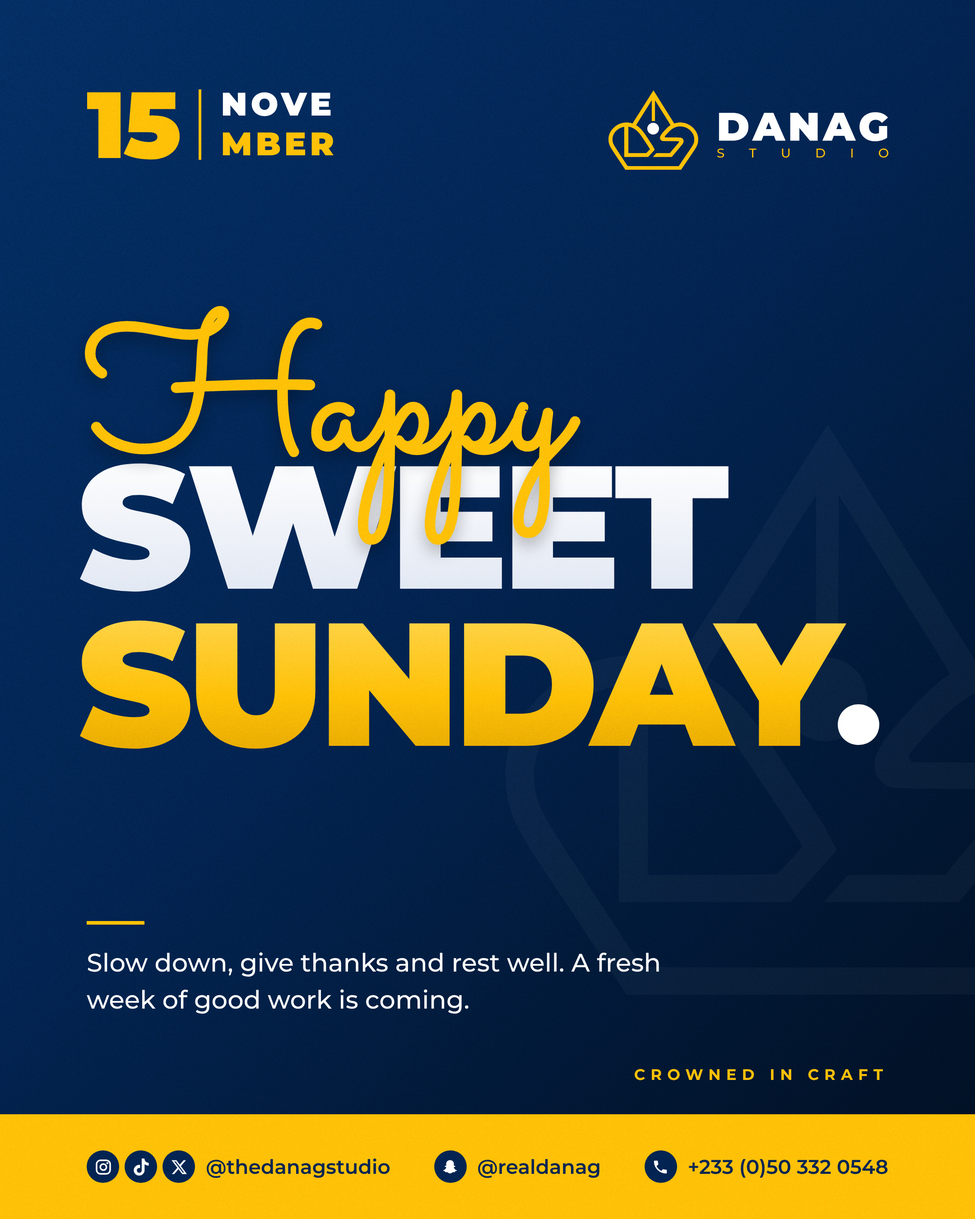
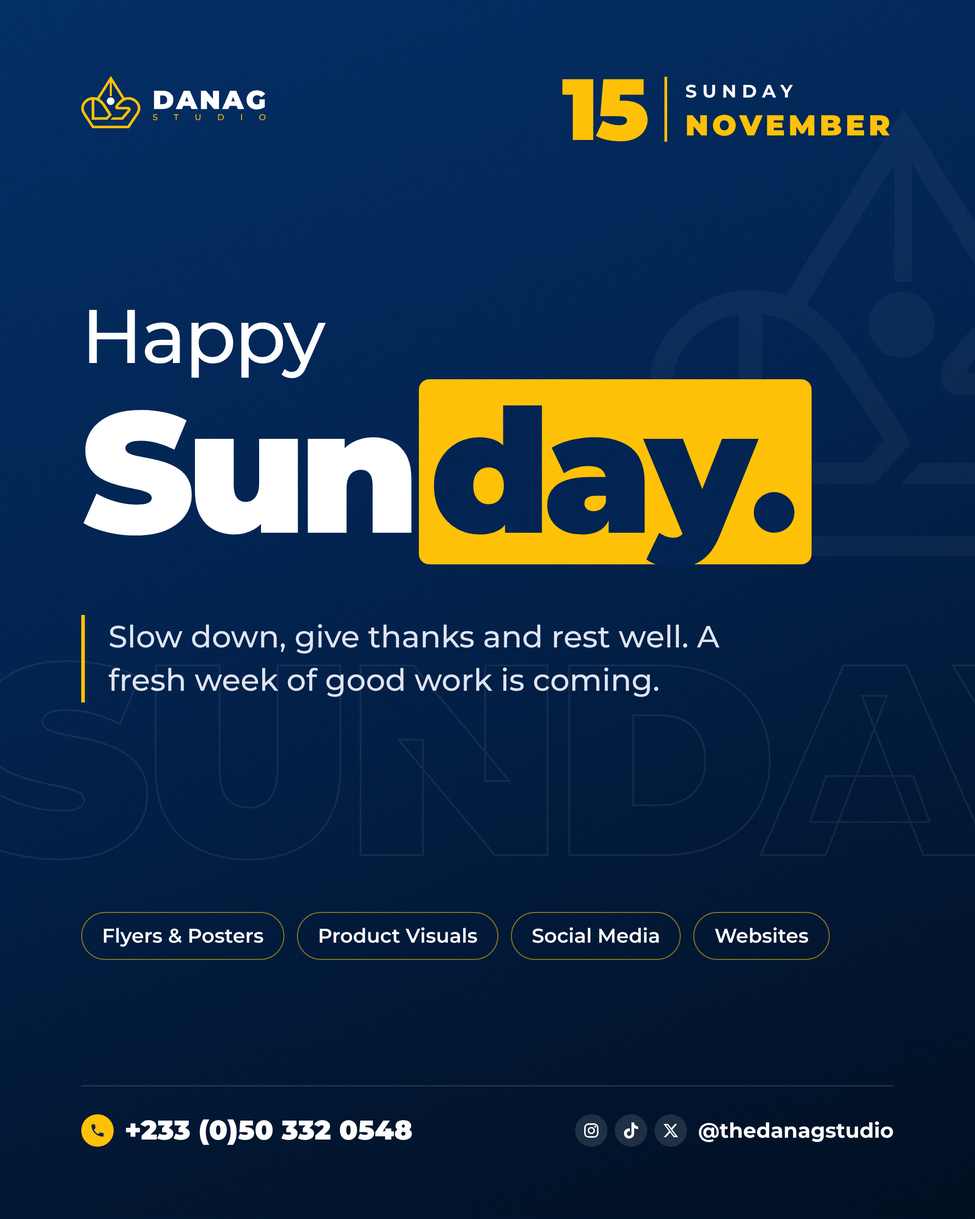
New daily style v2 (Sun-Tue), gold question-mark dot in headlines, prompts page
Claude-Session: https://claude.ai/code/session_016a1VN4sEuNiBsko23wNLQZ

diff --git a/promo/render_daily2.py b/promo/render_daily2.py
@@ -1,0 +1,61 @@
+"""Daily greeting v2 (week of 16 Nov 2026). Giant outlined weekday behind, 'Happy' + weekday with a gold highlight box
+(guide: KD 'Count.' box, Techvint big type), message with gold rule, service chips, contact strip. Navy (no glow) or white.
+Usage: python3 promo/render_daily2.py OUT theme YYYY-MM-DD "Word" "BoxPart" "message"
+   e.g. ... navy 2026-11-15 "Sun" "day" "Rest, reset ..."
+"""
+import sys, os, re, pathlib, datetime as dt
+from playwright.sync_api import sync_playwright
+from PIL import Image
+P = os.path.dirname(os.path.abspath(__file__)); R = os.path.dirname(P); B = f'{R}/book-flyer'
+sys.path.insert(0, B)
+import render_book as rb
+from contacts import IC
+out, theme, ds, w1, w2, msg = sys.argv[1:7]
+d = dt.date.fromisoformat(ds); navy = theme == 'navy'
+F = f'{R}/fonts/'; G = '#FFC107'; N = '#022452'; TX = '#fff' if navy else N; SUB = '#dfe5f1' if navy else '#3a4d6e'
+logo = re.sub(r'<\?xml[^>]*>', '', open(f'{B}/logo-on-{"navy" if navy else "white"}.svg').read()).replace('<svg', '<svg style="height:58px;width:auto;display:block"', 1)
+ic = lambda k, c, s=18: f'<svg viewBox="0 0 24 24" width="{s}" height="{s}" style="color:{c};flex:none">{IC[k]}</svg>'
+circ = lambda k: f'<span style="width:36px;height:36px;border-radius:50%;background:{G if k=="PH" else ("rgba(255,255,255,.12)" if navy else N)};display:inline-flex;align-items:center;justify-content:center">{ic(k, N if k=="PH" else "#fff")}</span>'
+chips = ''.join(f'<span style="border:1.5px solid {"rgba(255,193,7,.6)" if navy else "rgba(2,36,82,.25)"};border-radius:40px;padding:12px 22px;font-weight:600;font-size:22px">{t}</span>'
+                for t in ['Flyers &amp; Posters', 'Product Visuals', 'Social Media', 'Websites'])
+bg = ('linear-gradient(160deg,#032F65 0%,#022452 40%,#011631 78%,#010F21 100%)' if navy else
+      'radial-gradient(820px 700px at 0% 0%,rgba(255,193,7,.22),transparent 62%),linear-gradient(160deg,#ffffff 0%,#f7f8fb 60%,#eef0f5 100%)')
+WD = d.strftime('%A').upper()
+html = f"""<html><head><style>
+@font-face{{font-family:M;font-weight:400;src:url({F}montserrat-latin-400-normal.woff2)}}
+@font-face{{font-family:M;font-weight:500;src:url({F}montserrat-latin-500-normal.woff2)}}
+@font-face{{font-family:M;font-weight:600;src:url({F}montserrat-latin-600-normal.woff2)}}
+@font-face{{font-family:M;font-weight:700;src:url({F}montserrat-latin-700-normal.woff2)}}
+@font-face{{font-family:M;font-weight:900;src:url({F}montserrat-latin-900-normal.woff2)}}
+*{{margin:0;padding:0;box-sizing:border-box}}
+body{{width:1080px;height:1350px;overflow:hidden;position:relative;font-family:M;color:{TX};background:{bg}}}
+.a{{position:absolute}}
+</style></head><body>
+<div class="a" style="left:-30px;top:690px;width:1140px;font-weight:900;font-size:300px;line-height:1;letter-spacing:-10px;white-space:nowrap;color:transparent;-webkit-text-stroke:2px {"rgba(255,255,255,.07)" if navy else "rgba(2,36,82,.07)"}" id="ghost">{WD}</div>
+<svg class="a" viewBox="252 255 749 664" style="right:-200px;top:120px;width:560px;opacity:{.035 if navy else .022}"><path fill="{"#fff" if navy else N}" fill-rule="evenodd" d="{rb.MK['nodot']}"/><path fill="{"#fff" if navy else N}" d="{rb.MK['dot']}"/></svg>
+<div class="a" style="left:90px;top:84px">{logo}</div>
+<div class="a" style="right:90px;top:84px;display:flex;align-items:center;gap:20px">
+ <div style="font-weight:900;font-size:96px;line-height:.78;color:{G};letter-spacing:-3px">{d.strftime('%d')}</div>
+ <div style="width:3px;height:72px;background:{G}"></div>
+ <div style="font-weight:700;font-size:20px;letter-spacing:6px;line-height:1.55">{WD}<span style="display:block;font-weight:900;font-size:32px;letter-spacing:4px;line-height:1.1;margin-top:4px;color:{G}">{d.strftime('%B').upper()}</span></div>
+</div>
+<div class="a" style="left:90px;right:90px;top:330px">
+ <div style="font-weight:500;font-size:84px;line-height:1;letter-spacing:-2px">Happy</div>
+ <div id="h" style="font-weight:900;font-size:190px;line-height:1;letter-spacing:-8px;margin-top:6px;white-space:nowrap">{w1}<span style="display:inline-block;background:{G};color:{N};padding:0 .1em 0 .06em;margin-left:.04em;border-radius:.06em;line-height:1.08">{w2}<span style="display:inline-block;width:.236em;height:.236em;border-radius:50%;background:{N};margin-left:.03em"></span></span></div>
+ <div style="display:flex;gap:26px;margin-top:56px;max-width:760px"><div style="width:4px;background:{G};flex:none"></div><div style="font-weight:500;font-size:34px;line-height:1.42;color:{SUB}">{msg}</div></div>
+</div>
+<div class="a" style="left:90px;right:90px;top:1010px;display:flex;flex-wrap:wrap;gap:14px">{chips}</div>
+<div class="a" style="left:90px;right:90px;bottom:80px;padding-top:30px;border-top:1px solid {"rgba(255,255,255,.18)" if navy else "rgba(2,36,82,.15)"};display:flex;align-items:center;justify-content:space-between;font-weight:700;font-size:23px">
+ <div style="display:flex;align-items:center;gap:12px">{circ('PH')}<span style="font-weight:900;font-size:30px">+233 (0)50 332 0548</span></div>
+ <div style="display:flex;align-items:center;gap:8px">{circ('IG')}{circ('TT')}{circ('X')}<span style="margin-left:4px">@thedanagstudio</span></div>
+</div>
+<div class="a" style="inset:0;z-index:50;pointer-events:none;opacity:{.16 if navy else .1};mix-blend-mode:{"overlay" if navy else "multiply"};background-size:256px;background-image:url({R}/grain.png)"></div>
+<script>document.fonts.ready.then(()=>{{const h=document.getElementById('h');let f=190;while(h.scrollWidth>900&&f>100){{f-=4;h.style.fontSize=f+'px'}}document.body.dataset.done=1}})</script></body></html>"""
+tmp = '/tmp/_d2.html'; open(tmp, 'w').write(html)
+with sync_playwright() as p:
+    b = p.chromium.launch(executable_path='/usr/bin/google-chrome'); pg = b.new_page(viewport={'width': 1080, 'height': 1350}, device_scale_factor=2)
+    pg.goto(pathlib.Path(tmp).as_uri()); pg.wait_for_selector('body[data-done]'); pg.wait_for_timeout(300)
+    pg.screenshot(path='/tmp/_d2.png'); b.close()
+im = Image.open('/tmp/_d2.png').convert('RGB')
+im.save(out + '.jpg', quality=93, subsampling=0); im.resize((1080, 1350), Image.LANCZOS).save(out + '-1080.jpg', quality=93)
+print('ok', out)

diff --git a/edu-kit/render_edu_v2.py b/edu-kit/render_edu_v2.py
@@ -13,6 +13,11 @@ Mini designs are inline-styled HTML rendered inside a 400x500 card (use only fic
 logos; placeholder phone 000 000 0000). Slides alternate white (odd) / navy (even); faint logo mark on every slide.
 Content is vertically balanced between header and footer (space-evenly); the logo appears once per slide (header) plus the faint background mark. Headlines: line 1 strong, line 2 softer, round brand dot at the end. Max 10 slides."""
 import sys, json, pathlib
+def E(t):
+    """Headline end: question mark with gold dot, otherwise the round brand dot."""
+    if t.rstrip().endswith('?'):
+        return t.rstrip()[:-1] + '</span><span class="qm"><span class="t l2">?</span><span class="b">?</span></span>'
+    return t + '</span><span class="dot"></span>'
 from playwright.sync_api import sync_playwright
 from PIL import Image
 K = pathlib.Path(__file__).resolve().parent; R = K.parent; F = R / 'fonts'
@@ -35,6 +40,7 @@ CSS = f'''@font-face{{font-family:M;font-weight:500;src:url({(F/"montserrat-lati
 .num{{font-weight:700;font-size:30px;opacity:.6}}
 .h1{{font-weight:900;font-size:78px;line-height:1.02;letter-spacing:-2.5px}}
 .w .h1 .l2{{color:#7d879a}} .n .h1 .l2{{color:#9fb0cc}}
+.qm{{position:relative;display:inline-block;line-height:1}}.qm .t{{display:inline-block;clip-path:inset(0 0 38% 0)}}.qm .b{{position:absolute;left:0;top:0;clip-path:inset(62% 0 0 0);color:#FFC107;-webkit-text-fill-color:#FFC107;background:none}}
 .dot{{display:inline-block;width:.236em;height:.236em;border-radius:50%;background:#FFC107;margin-left:.03em}}
 .gl{{position:absolute;border-radius:50%;filter:blur(30px);pointer-events:none}}
 .gr{{position:absolute;inset:0;pointer-events:none;z-index:50;background-image:url({(F.parent/'grain.png').as_uri()});background-size:256px}}
@@ -54,14 +60,14 @@ slides = []
 COL = 'position:absolute;left:84px;right:84px;top:118px;bottom:100px;display:flex;flex-direction:column;justify-content:space-evenly'
 c = spec['cover']
 slides.append(lambda d,i,T: f'''<div style="{COL}"><div><div style="color:#b38600;font-size:22px;letter-spacing:6px;font-weight:900">{spec["kicker"]}</div>
-<div class="h1" style="font-size:96px;margin-top:22px">{c["l1"]}<br><span class="l2">{c["l2"]}</span><span class="dot"></span></div>
+<div class="h1" style="font-size:96px;margin-top:22px">{c["l1"]}<br><span class="l2">{E(c["l2"])}</div>
 <div class="p1" style="margin-top:26px;max-width:760px">{c["text"]}</div></div>
 <div style="position:relative;height:620px"><div class="a" style="left:20px;top:150px;transform:rotate(-7deg)"><div class="card" style="width:340px;height:425px"><div style="transform:scale(.85)">{c.get("visual_back","")}</div></div></div>
 <div class="a" style="right:30px;top:0;transform:rotate(5deg)"><div class="card" style="width:480px;height:600px"><div style="transform:scale(1.2)">{c["visual"]}</div></div></div></div></div>''')
 for k, t in enumerate(spec['tips'], 1):
     def mk(t=t, k=k):
         return lambda d,i,T: f'''<div style="{COL}"><div><div class="num">{k:02d}.</div>
-<div class="h1" style="margin-top:10px">{t["title1"]}<br><span class="l2">{t["title2"]}</span><span class="dot"></span></div>
+<div class="h1" style="margin-top:10px">{t["title1"]}<br><span class="l2">{E(t["title2"])}</div>
 <div class="p1" style="margin-top:22px">{t["problem"]}</div><div class="p2" style="margin-top:10px">{t["fix"]}</div></div>
 <div style="display:flex;justify-content:space-between;align-items:flex-end">
  <div><div class="card" style="width:400px;height:500px;filter:saturate(.85)"><div style="transform:none">{t["before"]}</div></div><div style="display:flex;gap:14px;align-items:center;margin-top:20px"><span class="pill" style="background:{"rgba(255,255,255,.12)" if d else "#e3e7ee"};color:{"#fff" if d else "#55607a"}">Before</span><span class="note">{t["before_note"]}</span></div></div>
@@ -70,12 +76,12 @@ for k, t in enumerate(spec['tips'], 1):
     slides.append(mk())
 r = spec['recap']
 ico = ''.join(f'<div style="display:flex;align-items:center;gap:24px;padding:26px 0;border-bottom:1.5px solid rgba(127,140,160,.25)"><span style="width:60px;height:60px;border-radius:50%;background:#FFC107;color:#022452;display:flex;align-items:center;justify-content:center;font-weight:900;font-size:24px;flex:none">{j:02d}</span><span style="font-weight:700;font-size:40px">{it}</span></div>' for j, it in enumerate(r['items'], 1))
-slides.append(lambda d,i,T: f'''<div style="{COL}"><div class="h1" style="font-size:88px">{r["l1"]}<br><span class="l2">{r["l2"]}</span><span class="dot"></span></div>
+slides.append(lambda d,i,T: f'''<div style="{COL}"><div class="h1" style="font-size:88px">{r["l1"]}<br><span class="l2">{E(r["l2"])}</div>
 <div>{ico}</div>
 <div style="display:flex;align-items:center;gap:22px"><svg viewBox="0 0 24 24" width="56" height="56"><path d="M6 3h12v18l-6-4-6 4z" fill="none" stroke="currentColor" stroke-width="2"/></svg><span class="p1" style="font-size:34px">Save this for your next design.</span></div></div>''')
 ct = spec['cta']
 ic = lambda k: f'<span style="width:52px;height:52px;border-radius:50%;background:#FFC107;display:inline-flex;align-items:center;justify-content:center"><svg viewBox="0 0 24 24" width="28" height="28" style="color:#022452">{IC[k]}</svg></span>'
-slides.append(lambda d,i,T: f'''<div style="{COL}"><div><div class="h1" style="font-size:112px">{ct["l1"]}<br><span class="l2">{ct["l2"]}</span><span class="dot"></span></div>
+slides.append(lambda d,i,T: f'''<div style="{COL}"><div><div class="h1" style="font-size:112px">{ct["l1"]}<br><span class="l2">{E(ct["l2"])}</div>
 <div class="p1" style="margin-top:30px;font-size:34px">{ct["text"]}</div></div>
 <div><div style="display:flex;align-items:center;justify-content:space-between;background:{"#FFC107" if d else "#022452"};border-radius:70px;padding:30px 34px 30px 50px;color:{"#022452" if d else "#fff"}">
 <span style="font-weight:800;font-size:34px">Book DANAG STUDIO</span><span style="font-weight:700;font-size:32px">+233 (0)50 332 0548</span></div>

diff --git a/book-flyer/render_book.py b/book-flyer/render_book.py
@@ -41,6 +41,17 @@ def line(text, cap, color, dot=False, track=0.02, dot_color='#fff'):
         stops = ''.join(f'<stop offset="{o}" stop-color="{c}"/>' for o, c in GR[color])
         defs = f'<defs><linearGradient id="{gid}" gradientUnits="userSpaceOnUse" x1="0" y1="0" x2="{0 if color != "#022452" else 0}" y2="{-G["cap"]}">{stops}</linearGradient></defs>'
         color = f'url(#{gid})'
+    q = text.rstrip().endswith('?')
+    if q:  # question: no brand dot; the dot of the '?' turns gold
+        dot = False
+        cid = 'q' + gid
+        defs += (f'<clipPath id="{cid}t"><rect x="-10" y="-10" width="{w + 20:.1f}" height="{cap * 0.80 + 10:.2f}"/></clipPath>'
+                 f'<clipPath id="{cid}b"><rect x="-10" y="{cap * 0.80:.2f}" width="{w + 20:.1f}" height="{cap:.2f}"/></clipPath>')
+        last = paths.rsplit('<path', 1)
+        body = (f'<g fill="{color}" transform="translate(0,{cap:.2f}) scale({s:.6f},{-s:.6f})">{last[0]}</g>'
+                f'<g clip-path="url(#{cid}t)"><g fill="{color}" transform="translate(0,{cap:.2f}) scale({s:.6f},{-s:.6f})"><path{last[1]}</g></g>'
+                f'<g clip-path="url(#{cid}b)"><g fill="#FFC107" transform="translate(0,{cap:.2f}) scale({s:.6f},{-s:.6f})"><path{last[1]}</g></g>')
+        return (f'<svg class="hs" width="{w:.1f}" height="{cap:.1f}" viewBox="0 0 {w:.1f} {cap:.1f}" style="display:block;overflow:visible">{defs}{body}</svg>')
     if dot:
         r = cap * 0.084; gap = cap * 0.06
         extra = f'<circle cx="{w + gap + r:.2f}" cy="{cap - r:.2f}" r="{r:.2f}" fill="{dot_color}"/>'
